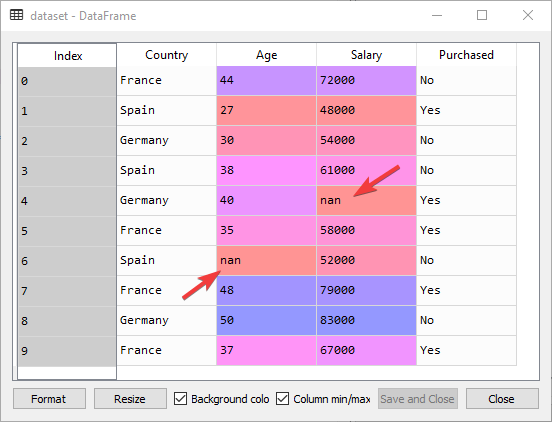
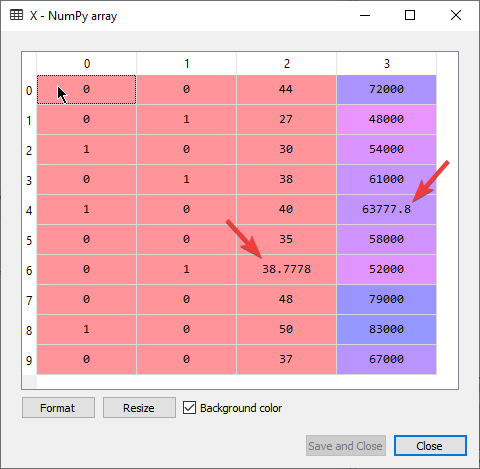
1. ottieni il dataset 2. import delle librerie 3. import dataset 4. encode categorical data 5. var dipendenti e indipendenti 6. missing data

diff --git a/01 - Data Preprocessing/data_preprocessing_template.py b/01 - Data Preprocessing/data_preprocessing_template.py
@@ -7,14 +7,21 @@ import pandas as pd # per importare e maneggiare dataset
 
 # Importing the dataset
 dataset = pd.read_csv('Data.csv')
-X = dataset.iloc[:, :-1].values
-y = dataset.iloc[:, 3].values
+
+# Categorical data
+country_dummies = pd.get_dummies(dataset.Country, prefix="Country", drop_first=True)
+dataset = pd.concat([country_dummies, dataset], axis = 1)
+dataset = pd.DataFrame.drop(dataset, columns=["Country"])
+
+# Variabili dipendenti e indipendenti
+X = dataset.iloc[:, :-1].to_numpy()
+y = dataset.iloc[:, -1].to_numpy()
 
 # Taking care of missing data
 from sklearn.impute import SimpleImputer
 simple_imputer = SimpleImputer(missing_values=np.nan, strategy="mean")
-simple_imputer.fit(X[:, 1:3]) # simple_imputer viene fatto lavorare solo nelle colonne dove ci sono dati mancanti
-X[:, 1:3] = simple_imputer.transform(x[:, 1:3])
+simple_imputer.fit(X[:, 2:4]) # simple_imputer viene fatto lavorare solo nelle colonne dove ci sono dati mancanti
+X[:, 2:4] = simple_imputer.transform(X[:, 2:4])
 
 # Splitting the dataset into the Training set and Test set
 from sklearn.cross_validation import train_test_split

diff --git a/01 - Data Preprocessing/readme.md b/01 - Data Preprocessing/readme.md
@@ -71,15 +71,57 @@ Il file importato, salvato nella variabile `dataset`, diventa visibile nel **var
 
 ![variable explorer](img/001.png)
 
+## 4. Encode categorical data
+
+Categorical data sono variabili che contengono categorie, tipo *Country* e *Purchased*.
+
+- *Country*: contiene le categorie *France*, *Spain*, *Germany*.
+- *Purchased*: contiene le categorie *Yes* e *No*.
+
+Per risolvere i calcoli matematici è necessario che le categorie (testuali) vengano espresse tramite numeri: bisogna **codificare le categorie**.
+
+```Python
+country_dummies = pd.get_dummies(dataset.Country, prefix="Country", drop_first=True)
+dataset = pd.concat([country_dummies, dataset], axis = 1)
+dataset = pd.DataFrame.drop(dataset, columns=["Country"])
+```
+
+`get_dummies` permette di **codificare delle classi** assegnando dei numeri da `0` a `n_classi-1`.
+
+Con il codice
+
+```Python
+country_dummies = pd.get_dummies(dataset.Country, prefix="Country", drop_first=True)
+```
+
+Viene creata la tabella fatta così:
+
+![dummy data](img/007.png)
+
+- `prefix="Country"` aggiungono il prefisso `Country_` al nome della colonna.
+- `drop_first=True` elimina una colonna. Per codificare con dummy data N variabili vengono generate N colonne, ma ne bastano N-1.
+
+Con il codice
+
+```Python
+dataset = pd.concat([country_dummies, dataset], axis = 1)
+dataset = pd.DataFrame.drop(dataset, columns=["Country"])
+```
+
+le nuove colonne di dummy data rimpiazzano quella codificata (`Country`).
+
+![dummy data](img/008.png)
+
+## 5. Variabili dipendenti e indipendenti
+
 Ora bisogna creare:
 
 - la **Matrice di Features** usando le **variabili indipendenti** *Country, Age, Salary*.
 - il vettore di variabili dipendenti usando la colonna *Purchased*.
 
-```python
-# matrice di features
-X = dataset.iloc[:, :-1].values # seleziona tutte le righe delle 3 colonne desiderate (tutte tranne l'ultima)
-y = dataset.iloc[:, 3].values # selezione tutte le righe dell'ultima colonna (indice 3)
+```Python
+X = dataset.iloc[:, :-1].to_numpy()
+y = dataset.iloc[:, -1].to_numpy()
 ```
 
 > Il comando `iloc[:,:-1]` vuol dire:
@@ -92,75 +134,38 @@ y = dataset.iloc[:, 3].values # selezione tutte le righe dell'ultima colonna (in
 Digitando `X` nella console di spyder viene stampato:
 
 ```cmd
-Out[6]:
-array([['France', 44.0, 72000.0],
-    ['Spain', 27.0, 48000.0],
-    ['Germany', 30.0, 54000.0],
-    ['Spain', 38.0, 61000.0],
-    ['Germany', 40.0, nan],
-    ['France', 35.0, 58000.0],
-    ['Spain', nan, 52000.0],
-    ['France', 48.0, 79000.0],
-    ['Germany', 50.0, 83000.0],
-    ['France', 37.0, 67000.0]], dtype=object)
+array([[0.0e+00, 0.0e+00, 4.4e+01, 7.2e+04],
+       [0.0e+00, 1.0e+00, 2.7e+01, 4.8e+04],
+       [1.0e+00, 0.0e+00, 3.0e+01, 5.4e+04],
+       [0.0e+00, 1.0e+00, 3.8e+01, 6.1e+04],
+       [1.0e+00, 0.0e+00, 4.0e+01,     nan],
+       [0.0e+00, 0.0e+00, 3.5e+01, 5.8e+04],
+       [0.0e+00, 1.0e+00,     nan, 5.2e+04],
+       [0.0e+00, 0.0e+00, 4.8e+01, 7.9e+04],
+       [1.0e+00, 0.0e+00, 5.0e+01, 8.3e+04],
+       [0.0e+00, 0.0e+00, 3.7e+01, 6.7e+04]])
 ```
 
 Digitando `y` nella console di spyder viene stampato:
 
 ```cmd
-Out[10]: 
 array(['No', 'Yes', 'No', 'No', 'Yes', 'Yes', 'No', 'Yes', 'No', 'Yes'],
     dtype=object)
 ```
 
-### In RStudio
-
-Setta la cartella del file da elaborare come working directory usando il file explorer:
-
-![variable explorer](img/002.png)
-
-Importa il dataset (non è necessario creare la matrice di variabili indipendenti e l'array di var dipendenti.)
-
-```R
-dataset = read.csv('Data.csv')
-```
-
-Digitando `dataset` nel terminale di RStudio viene stampato:
-
-```
-> dataset
-   Country Age Salary Purchased
-1   France  44  72000        No
-2    Spain  27  48000       Yes
-3  Germany  30  54000        No
-4    Spain  38  61000        No
-5  Germany  40     NA       Yes
-6   France  35  58000       Yes
-7    Spain  NA  52000        No
-8   France  48  79000       Yes
-9  Germany  50  83000        No
-10  France  37  67000       Yes
-```
-
-La variabile dataset è visibile anche nella tab environment:
-
-![variable explorer](img/003.png)
-
-**NB: l'indice in R comincia da 1**
-
-## 3 Missing data
+## 6. Missing data
 
 Bisogna gestire anche le situazioni in cui ci sono dataset incompleti.
 
-Le celle vuote vengono riempite con il **mean value** (media aritmetica) dei dati contenuti nella colonna.
+Le celle vuote vengono riempite con il **mean value** (**media aritmetica**) dei dati contenuti nella colonna.
 
 ### In python
 
 ```python
 from sklearn.impute import SimpleImputer
 simple_imputer = SimpleImputer(missing_values=np.nan, strategy="mean")
-simple_imputer.fit(X[:, 1:3])
-X[:, 1:3] = simple_imputer.transform(X[:, 1:3])
+simple_imputer.fit(X[:, 2:4]) # simple_imputer viene fatto lavorare solo nelle colonne dove ci sono dati mancanti
+X[:, 2:4] = simple_imputer.transform(X[:, 2:4])
 ```
 
 `sklearn` è una libreria che permette di creare dei modelli.
@@ -184,38 +189,26 @@ Eseguendo
 simple_imputer.fit(X[:, 1:3])
 ```
 
-si esegue l'inserimento dei mean value solo nelle colonne in cui ci sono dati mancanti, cioè 2a e 3a, ma guardando tutte le righe: in pratica il mean value è guardato sull'intera colonna e applicato alle sole celle vuote.
+si esegue l'inserimento dei mean value solo nelle colonne in cui ci sono dati mancanti, cioè 3a e 4a, ma guardando tutte le righe: in pratica il mean value è guardato sull'intera colonna e applicato alle sole celle vuote.
 
 Eseguendo
 
 ```python
-X[:, 1:3] = simple_imputer.transform(X[:, 1:3])
+X[:, 2:4] = simple_imputer.transform(X[:, 2:4])
 ```
 
 si sovrascrivono le colonne di X con i nuovi dati.
 
 ```cmd
-array([['France', 44.0, 72000.0],
-    ['Spain', 27.0, 48000.0],
-    ['Germany', 30.0, 54000.0],
-    ['Spain', 38.0, 61000.0],
-    ['Germany', 40.0, 63777.77777777778],
-    ['France', 35.0, 58000.0],
-    ['Spain', 38.77777777777778, 52000.0],
-    ['France', 48.0, 79000.0],
-    ['Germany', 50.0, 83000.0],
-    ['France', 37.0, 67000.0]], dtype=object)
+array([[0.00000000e+00, 0.00000000e+00, 4.40000000e+01, 7.20000000e+04],
+       [0.00000000e+00, 1.00000000e+00, 2.70000000e+01, 4.80000000e+04],
+       [1.00000000e+00, 0.00000000e+00, 3.00000000e+01, 5.40000000e+04],
+       [0.00000000e+00, 1.00000000e+00, 3.80000000e+01, 6.10000000e+04],
+       [1.00000000e+00, 0.00000000e+00, 4.00000000e+01, 6.37777778e+04],
+       [0.00000000e+00, 0.00000000e+00, 3.50000000e+01, 5.80000000e+04],
+       [0.00000000e+00, 1.00000000e+00, 3.87777778e+01, 5.20000000e+04],
+       [0.00000000e+00, 0.00000000e+00, 4.80000000e+01, 7.90000000e+04],
+       [1.00000000e+00, 0.00000000e+00, 5.00000000e+01, 8.30000000e+04],
+       [0.00000000e+00, 0.00000000e+00, 3.70000000e+01, 6.70000000e+04]])
 ```
 
-### In R
-
-Per rimpiazzare i valori vuoti con la media della singola colonna:
-
-```R
-dataset$Age[is.na(dataset$Age)] <- mean(dataset$Age, na.rm=TRUE)
-dataset$Salary[is.na(dataset$Salary)] <- mean(dataset$Salary, na.rm=TRUE)
-```
-
-Il dataset diventa
-
-![dataset](img/005.png)
